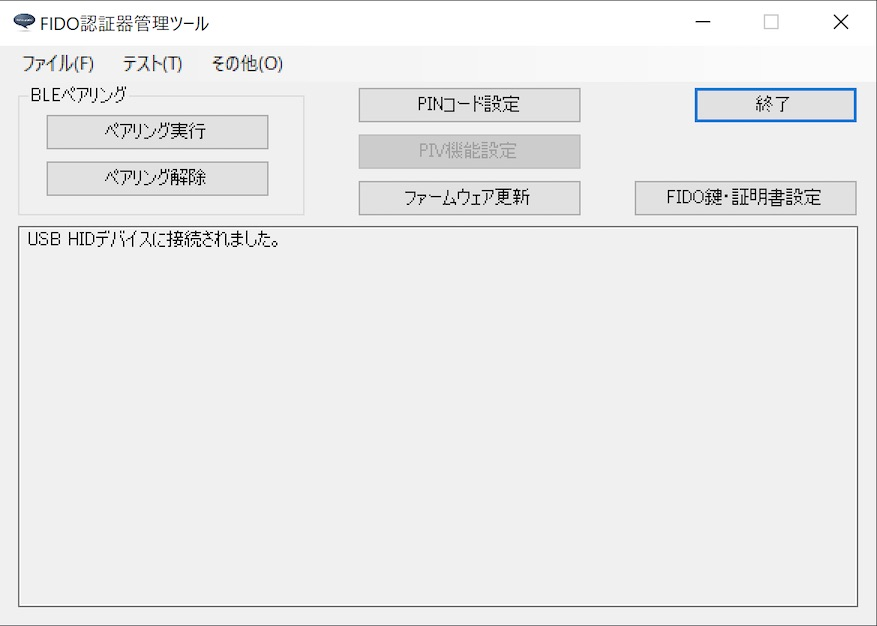
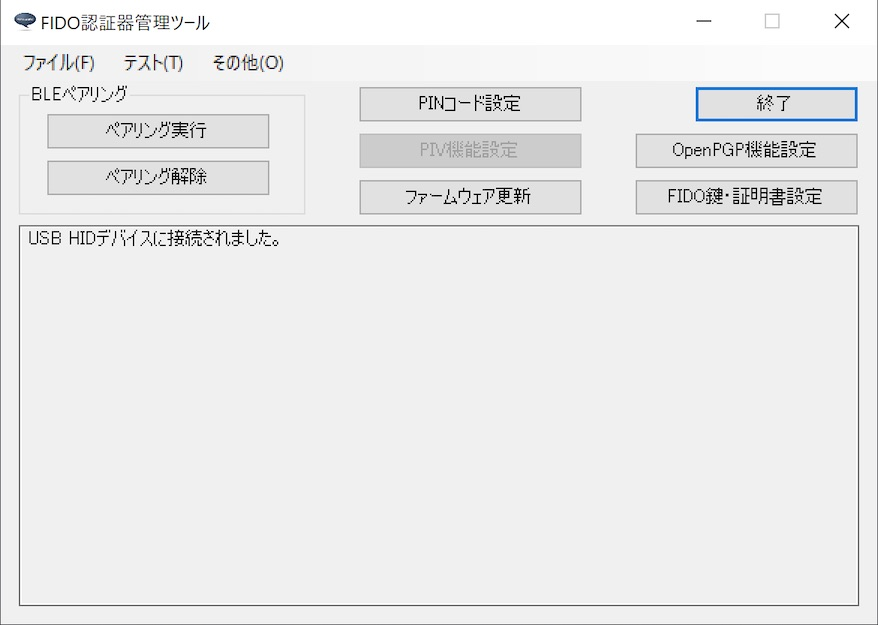
ドキュメントを更新
・PGP鍵インストール手順書（Windows版）を作成

diff --git a/MaintenanceTool/WindowsExe/PGPKEYINST.md b/MaintenanceTool/WindowsExe/PGPKEYINST.md
@@ -1,0 +1,139 @@
+# PGP鍵インストール手順書
+
+最終更新日：2022/1/18
+
+## 概要
+
+[FIDO認証器管理ツール](README.md)を使用して、[MDBT50Q Dongle](../../FIDO2Device/MDBT50Q_Dongle/README.md)にPGP鍵をインストールする手順について掲載します。
+
+## ソフトウェアの準備
+
+PGP鍵のインストールを実行するためには、管理ツール、ファームウェア共に、必要バージョン以降である必要があります。<br>
+また、[Gpg4win](https://www.gnupg.org)というツールを、PCに別途インストールする必要があります。
+
+#### 管理ツールのバージョン確認
+まずは[インストール手順](INSTALLPRG.md)を参照し、管理ツールをWindowsにインストールします。<br>
+次に、下記手順で管理ツールのバージョン確認を行い、<b>Version 0.1.38以降</b>であるかどうか確認します。
+
+管理ツールのメニュー「その他-->ツール設定」を選択し、ツール設定画面を開きます。
+
+<img src="assets03/0001.jpg" width="400">
+
+ツール設定画面のタブ「バージョン」を選択し、バージョンを確認してください。<br>
+（下記例では「Version 0.1.38」となっております）
+
+<img src="assets07/0001.jpg" width="400">
+
+#### ファームウェアのバージョン確認
+続いて、下記手順で[MDBT50Q Dongle](../../FIDO2Device/MDBT50Q_Dongle/README.md)ファームウェアのバージョン確認を行い、<b>0.3.3以降</b>であるかどうか確認します。<br>
+MDBT50Q DongleをPCのUSBポートに装着した後、管理ツールのメニュー「Test-->USB-->バージョン情報取得」を選択します。
+
+<img src="assets07/0002.jpg" width="400">
+
+管理ツール下部のメッセージ欄に表示される、ファームウェアのバージョンを確認してください。<br>
+（下記例では「0.3.3」となっております）
+
+<img src="assets07/0003.jpg" width="400">
+
+#### Gpg4winのインストール
+
+管理ツールは、PGP鍵インストール処理時、[Gpg4win](https://www.gnupg.org)というツールに同梱の「GnuPG」を管理ツールで内部利用するため、あらかじめ<b>Gpg4winがPCにインストールされている</b>必要があります。
+
+<img src="../../CCID/OpenPGP/assets02/0004.jpg" width="500">
+
+Gpg4winのインストール手順につきましては、別ドキュメント「<b>[Gpg4winインストール手順書](../../CCID/OpenPGP/GPGINSTWIN.md)</b>」をご参照願います。
+
+## 管理ツールの起動
+
+PGP秘密鍵のインストールは「OpenPGP機能設定画面」上から行います。
+
+まずは管理ツールを起動し、USBポートに[MDBT50Q Dongle](../../FIDO2Device/MDBT50Q_Dongle/README.md)を装着します。<br>
+
+<img src="../../MaintenanceTool/WindowsExe/assets/0020.jpg" width="400">
+
+管理ツール画面下部のメッセージ欄に「USB HIDデバイスに接続されました。」と表示されることを確認したら、管理ツール画面の「OpenPGP機能設定」ボタンをクリックします。
+
+<img src="assets07/0004.jpg" width="400">
+
+ホーム画面の上に、OpenPGP機能設定画面がポップアップ表示されます。
+
+<img src="assets07/0005.jpg" width="400">
+
+## PGP秘密鍵のインストール
+
+OpenPGP機能で使用するPGP秘密鍵を、[MDBT50Q Dongle](../../FIDO2Device/MDBT50Q_Dongle/README.md)に導入します。
+
+導入が必要な秘密鍵は、以下の３セットになります。<br>
+いずれも、本機能で自動生成されます。
+
+- 電子署名用（Signature key）
+- 暗号／復号化用（Encryption key）
+- PGP認証用（Authentication key）
+
+以下の手順により、３セットの秘密鍵をすべてインストールします。
+
+#### インストール手順
+
+まずはインストールする鍵の個人情報を入力します。<br>
+全項目入力必須になります。
+
+- 名前（５文字以上で入力します）
+- メールアドレス
+- コメント
+
+<img src="assets07/0006.jpg" width="350">
+
+次に、各種ファイルの出力先フォルダーを選択します。<br>
+「PGP公開鍵」欄右側の「参照」ボタンをクリックします。
+
+<img src="assets07/0007.jpg" width="350">
+
+フォルダー参照ダイアログから、該当の出力先フォルダーを選択し「選択」ボタンをクリックします。
+
+<img src="assets07/0008.jpg" width="280">
+
+フォルダー欄に、選択された出力先フォルダーのパスが表示されます。
+
+<img src="assets07/0009.jpg" width="350">
+
+同様に、バックアップファイルの出力先フォルダーも選択します。
+
+<img src="assets07/0010.jpg" width="350">
+
+PGP公開鍵、バックアップ両方の出力先フォルダーを選択したら、下部の認証情報欄に、OpenPGP機能で使用する管理用PIN番号を入力します。[注1]
+
+PIN番号を入力したら、下部の「PGP秘密鍵のインストール」ボタンをクリックします。
+
+<img src="assets07/0011.jpg" width="350">
+
+下記のような確認ダイアログが表示されますので、Yesボタンをクリックします。
+
+<img src="assets07/0012.jpg" width="350">
+
+PGP秘密鍵のインストール処理が実行されます。
+
+<img src="assets07/0013.jpg" width="350">
+
+程なく、下図のようなメッセージがポップアップ表示され、処理が完了します。
+
+<img src="assets07/0014.jpg" width="350">
+
+[注1] 管理用PIN番号は初期状態では「`12345678`」となっております。最終更新日現在、管理ツールにはPIN番号の変更機能は有りません。GnuPGのコマンド`gpg --card-edit`を使用し、PIN番号を変更することは可能です。
+
+#### 確認手順
+
+インストールされた証明書は「OpenPGP設定情報取得画面」で確認できます。<br>
+OpenPGP機能設定画面の左下部のボタン「設定情報を参照」をクリックします。
+
+<img src="assets07/0015.jpg" width="350">
+
+下図のようなOpenPGP設定情報取得画面がポップアップ表示されます。<br>
+以下の３点が設定されていることが確認できます。
+
+- 電子署名用（Signature key）の設定情報
+- 暗号／復号化用（Encryption key）の設定情報
+- PGP認証用（Authentication key）の設定情報
+
+<img src="assets07/0016.jpg" width="350">
+
+以上で、PGP秘密鍵のインストールは完了です。
